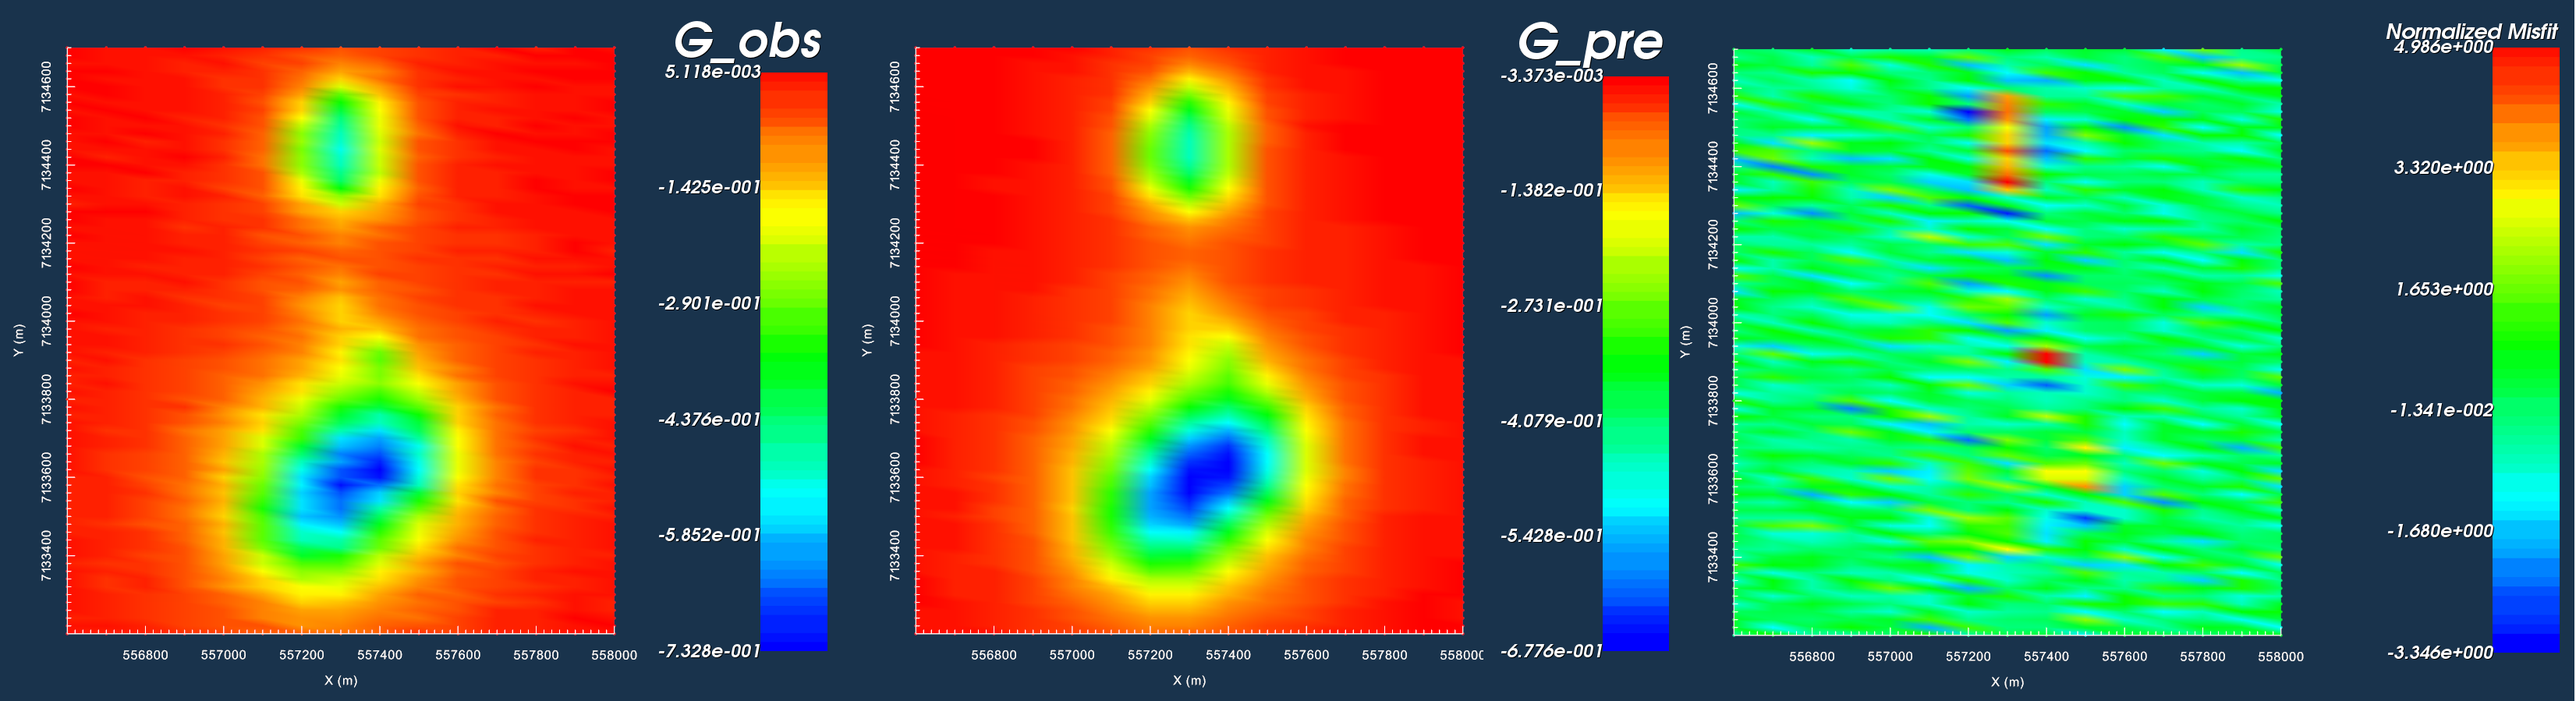
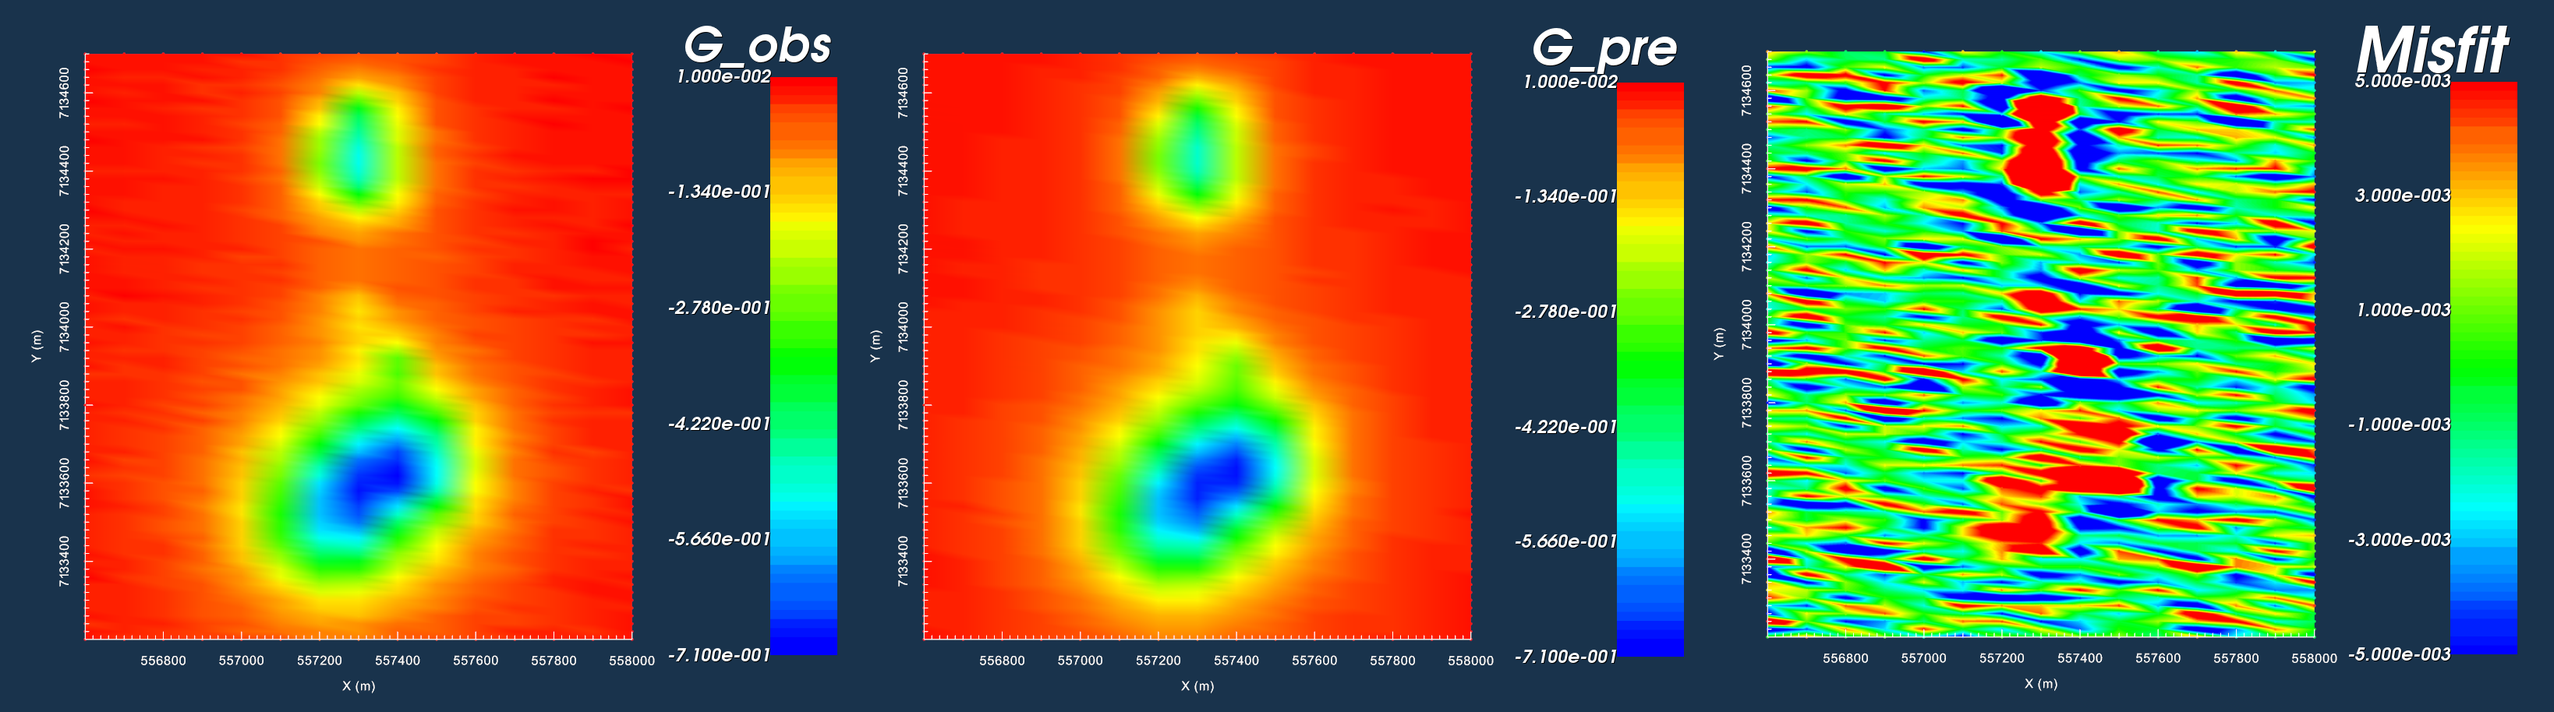
smooth mod and smooth mod dif inversions

diff --git a/content/AtoZ/gravity/gravityInversion.rst b/content/AtoZ/gravity/gravityInversion.rst
@@ -35,8 +35,8 @@ Assign Uncertainties and Set I/O Headers
 
 Assigning appropriate uncertainties to the data is necessary for running stable and successful inversions with GIFtools. Because the observed gravity data were generated synthetically, we will add random noise before assigning the uncertainties. Because the statistics of the noise are known, they can be used to assign the correct uncertainties. Complete the following steps:
 
-    - :ref:`Add Gaussian random noise <objectAddNoise>` (Percent = 2, Floor = 0.005)
-    - :ref:`Assign uncertainties to G_noisy <objectAssignUncert>` (Percent = 2, Floor = 0.005)
+    - :ref:`Add Gaussian random noise <objectAddNoise>` (Percent = 0, Floor = 0.005)
+    - :ref:`Assign uncertainties to G_noisy <objectAssignUncert>` (Percent = 0, Floor = 0.005)
     - :ref:`Set I/O headers <objectSetioHeaders>` to ensure the elevation, observed data and uncertainty columns are set correctly
 
  .. figure:: images/DataUncertainties.png
@@ -53,8 +53,10 @@ Here, we perform the most basic type of gravity anomaly inversion. No a priori i
 
     - :ref:`Create a gravity inversion object <createGravInv>`
     - :ref:`Edit the inversion parameters <invEditOptions>`
-        - **Sensitivity Tab:** set the mesh, observed data and topography
-        - **Inversion Tab:** set the active cells
+        - **Sensitivity Tab:** set mesh, observed data and topography
+        - **Inversion Tab:**
+            - set the active cells
+            - use alpha S = 0.0016, alpha E = 1, alpha N = 1 and alpha Z = 1 for the weighting
         - **Blocky model norms:** *leave all as default*
         - Apply and write files when finished
     - :ref:`Run the inversion <invRun>`
@@ -69,7 +71,7 @@ Here, we perform the most basic type of gravity anomaly inversion. No a priori i
     :align: center
     :width: 700
 
-    Observed data (left). Data predicted with final model (middle). Normalized misfit (right).
+    Observed data (left). Data predicted with final model (middle). Misfit with colour scale set to +/- 0.005 (right).
 
 
 .. figure:: images/Inversion1_Model.png
@@ -81,14 +83,58 @@ Here, we perform the most basic type of gravity anomaly inversion. No a priori i
 Results
 ^^^^^^^
 
-    - Data predicted with the final recovered model fits the observed field data sufficiently
-    - The general distribution of density contrasts is recovered through inversion.
+    - Generally, the data predicted using the recovered model matches the shape and character of the observed anomalies
+    - However, large misfits are clustered around the locations of recovered structures
+    - The general distribution of density contrasts is recovered through inversion
     - By using the default set of inversion parameters however, we recovered a very smooth density contrast model
     - Because the inversion was set to recover a smooth model, the inversion placed positive density contrast values (red) around the outside of the recovered structures
 
 
-Smooth Model Difference Inversion
----------------------------------
+Inversion with Hard Constraints
+-------------------------------
+
+Here, we show the impact of reference models on the final inversion result. Two inversion will be run - one using *SMOOTH_MOD* and one using *SMOOTH_MOD_DIFF*. *SMOOTH_MOD* tries to return a model which 1) has the same structure as the reference model but 2) is smooth. *SMOOTH_MOD_DIF* on the other hand tries to return a model which 1) has the same structure as the reference model and 2) has smooth and sharp gradients in the same places as the reference model. Both inversions are constrained with the model that was made using the geological surface map (see :ref:`here <AtoZGrav_Forward_Model_Geo>`). To complete this exercise:
+
+    - :ref:`Create a new gravity inversion object <createGravInv>`
+    - :ref:`Edit the inversion parameters <invEditOptions>`
+        - **Sensitivity Tab:** set the mesh, observed data and topography
+        - **Inversion Tab:**
+            - set the active cells
+            - use alpha S = 0.0016, alpha E = 1, alpha N = 1 and alpha Z = 1 for the weighting
+            - set the reference and starting models using the model you created from the surface mapping
+            - under the reference model option, choose either *SMOOTH_MOD* or *SMOOTH_MOD_DIF*
+        - **Blocky model norms:** *leave all as default*
+        - Apply and write files when finished
+    - :ref:`Run the inversion <invRun>`
+    - :ref:`Import inversion results <invLoadResults>`
+    - View the results. The user is encouraged to:
+        - Examine the differences in recovered models using *SMOOTH_MOD* and *SMOOTH_MOD_DIF*
+        - Examine the differences in data misfit for data predicted using *SMOOTH_MOD* and *SMOOTH_MOD_DIF* inversions
+
+
+.. figure:: images/Inversion2_Model.png
+    :align: center
+    :width: 700
+
+    Reference model from geological unit image (top-left). Model recovered using unconstrained smooth inversion (top-right). Model recovered using *SMOOTH_MOD* (bottom-left). Model recovered using *SMOOTH_MOD_DIF* (bottom-right).
+
+
+.. figure:: images/Inversion2_Misfit.png
+    :align: center
+    :width: 700
+
+    Data misfit thresholded at +/- 0.005 for the unconstrained smooth model (left), SMOOTH_MOD (middle) and SMOOTH_MOD_DIF (right).
+
+Results
+^^^^^^^
+
+
+
+
+
+
+
+
 
 
 

diff --git a/content/AtoZ/gravity/gravityForward.rst b/content/AtoZ/gravity/gravityForward.rst
@@ -140,6 +140,7 @@ Regions above the topography have an effective density of 0 and do not contribut
     - :ref:`Creating active cell model from topography <createActiveCellsModel>`
         - Choose 'from tops of cells'
 
+.. _AtoZGrav_Forward_Model_Geo:
 
 Create Density Model through Model Builder
 ^^^^^^^^^^^^^^^^^^^^^^^^^^^^^^^^^^^^^^^^^^
